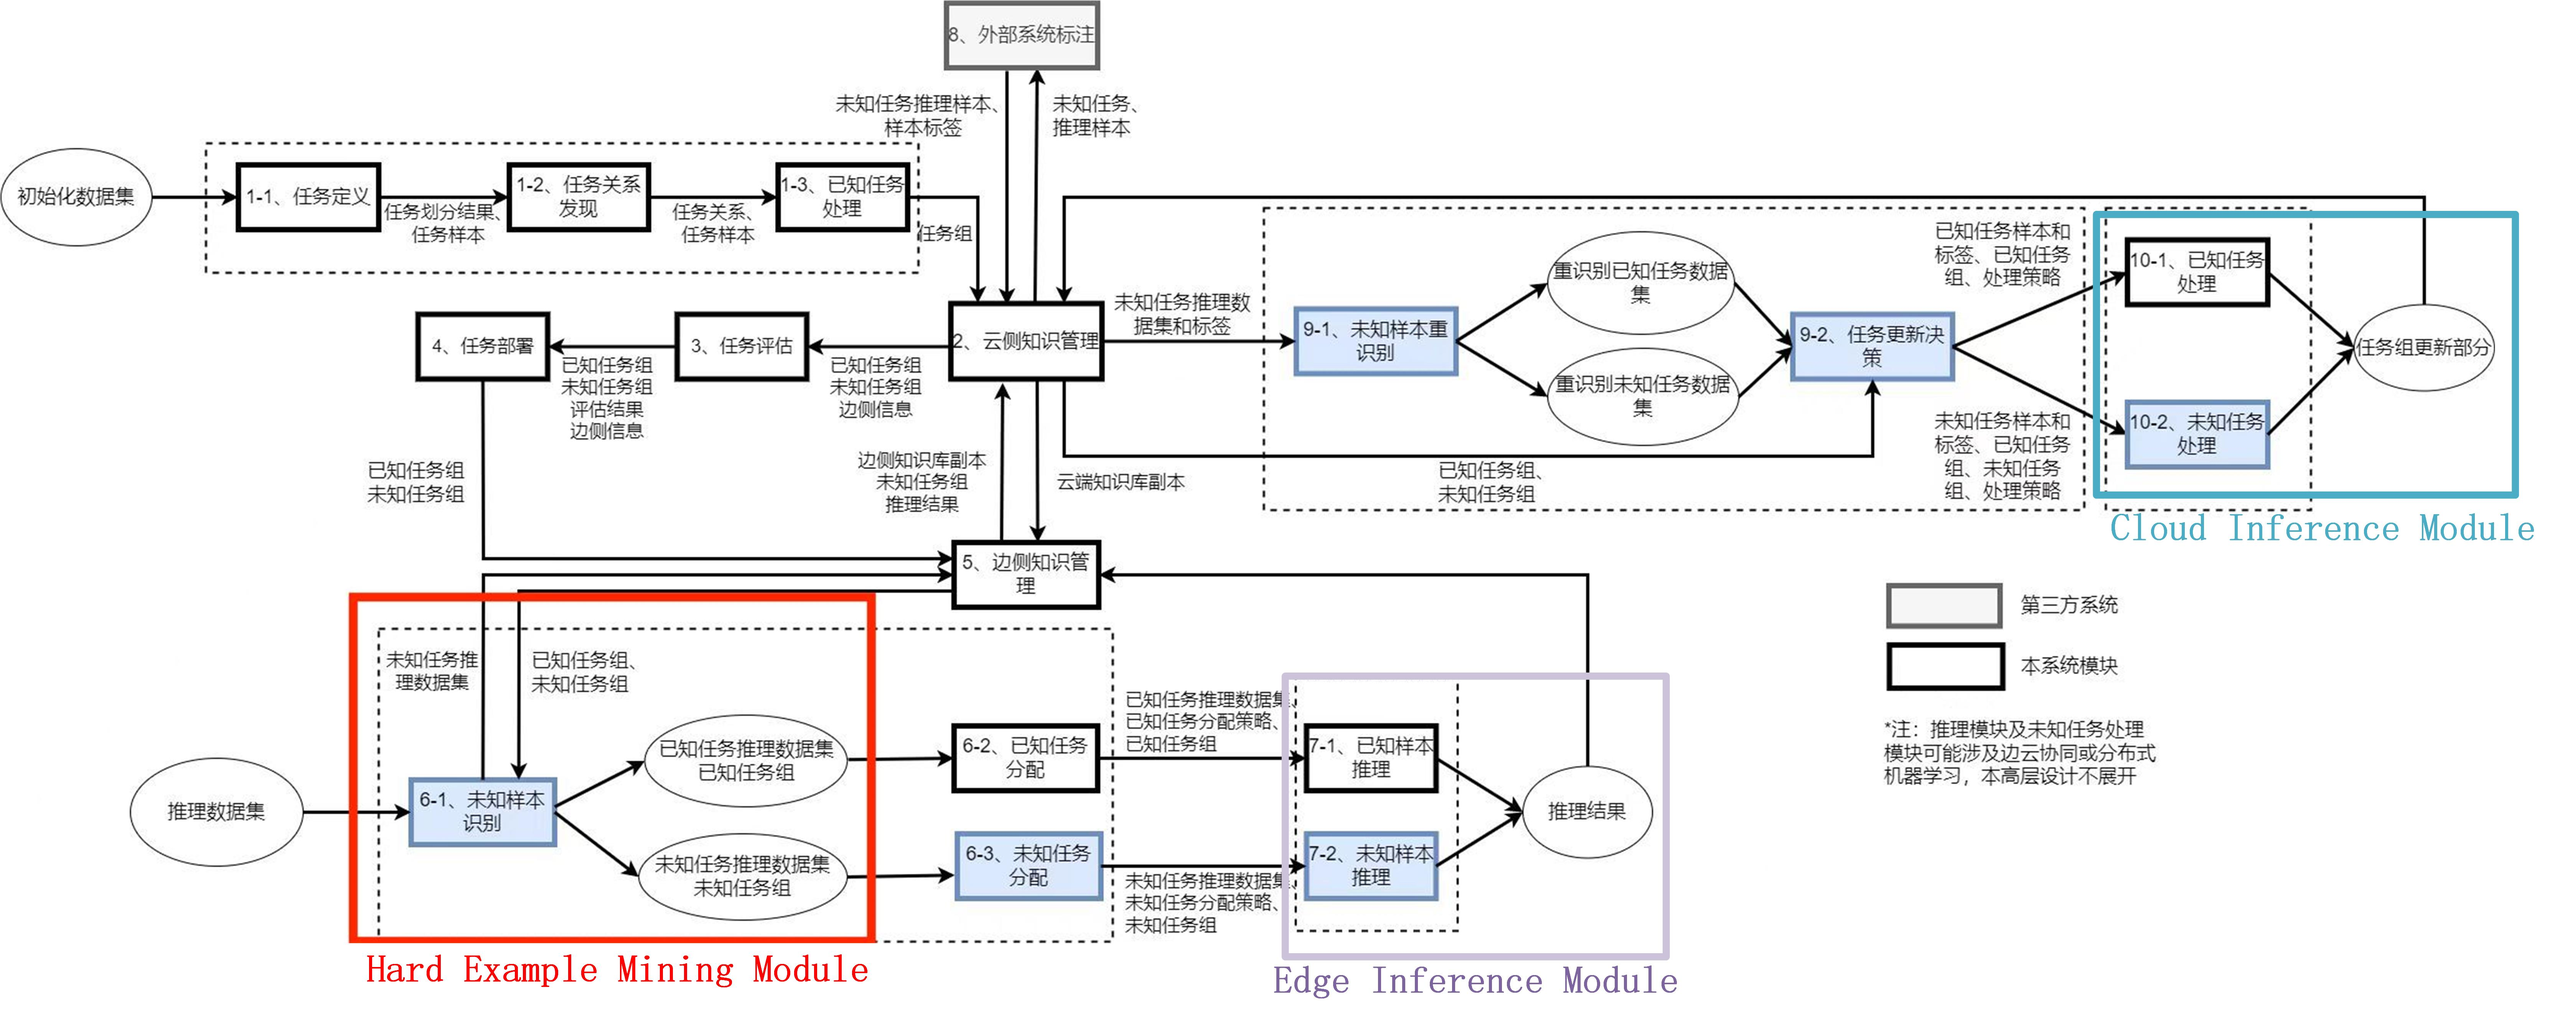
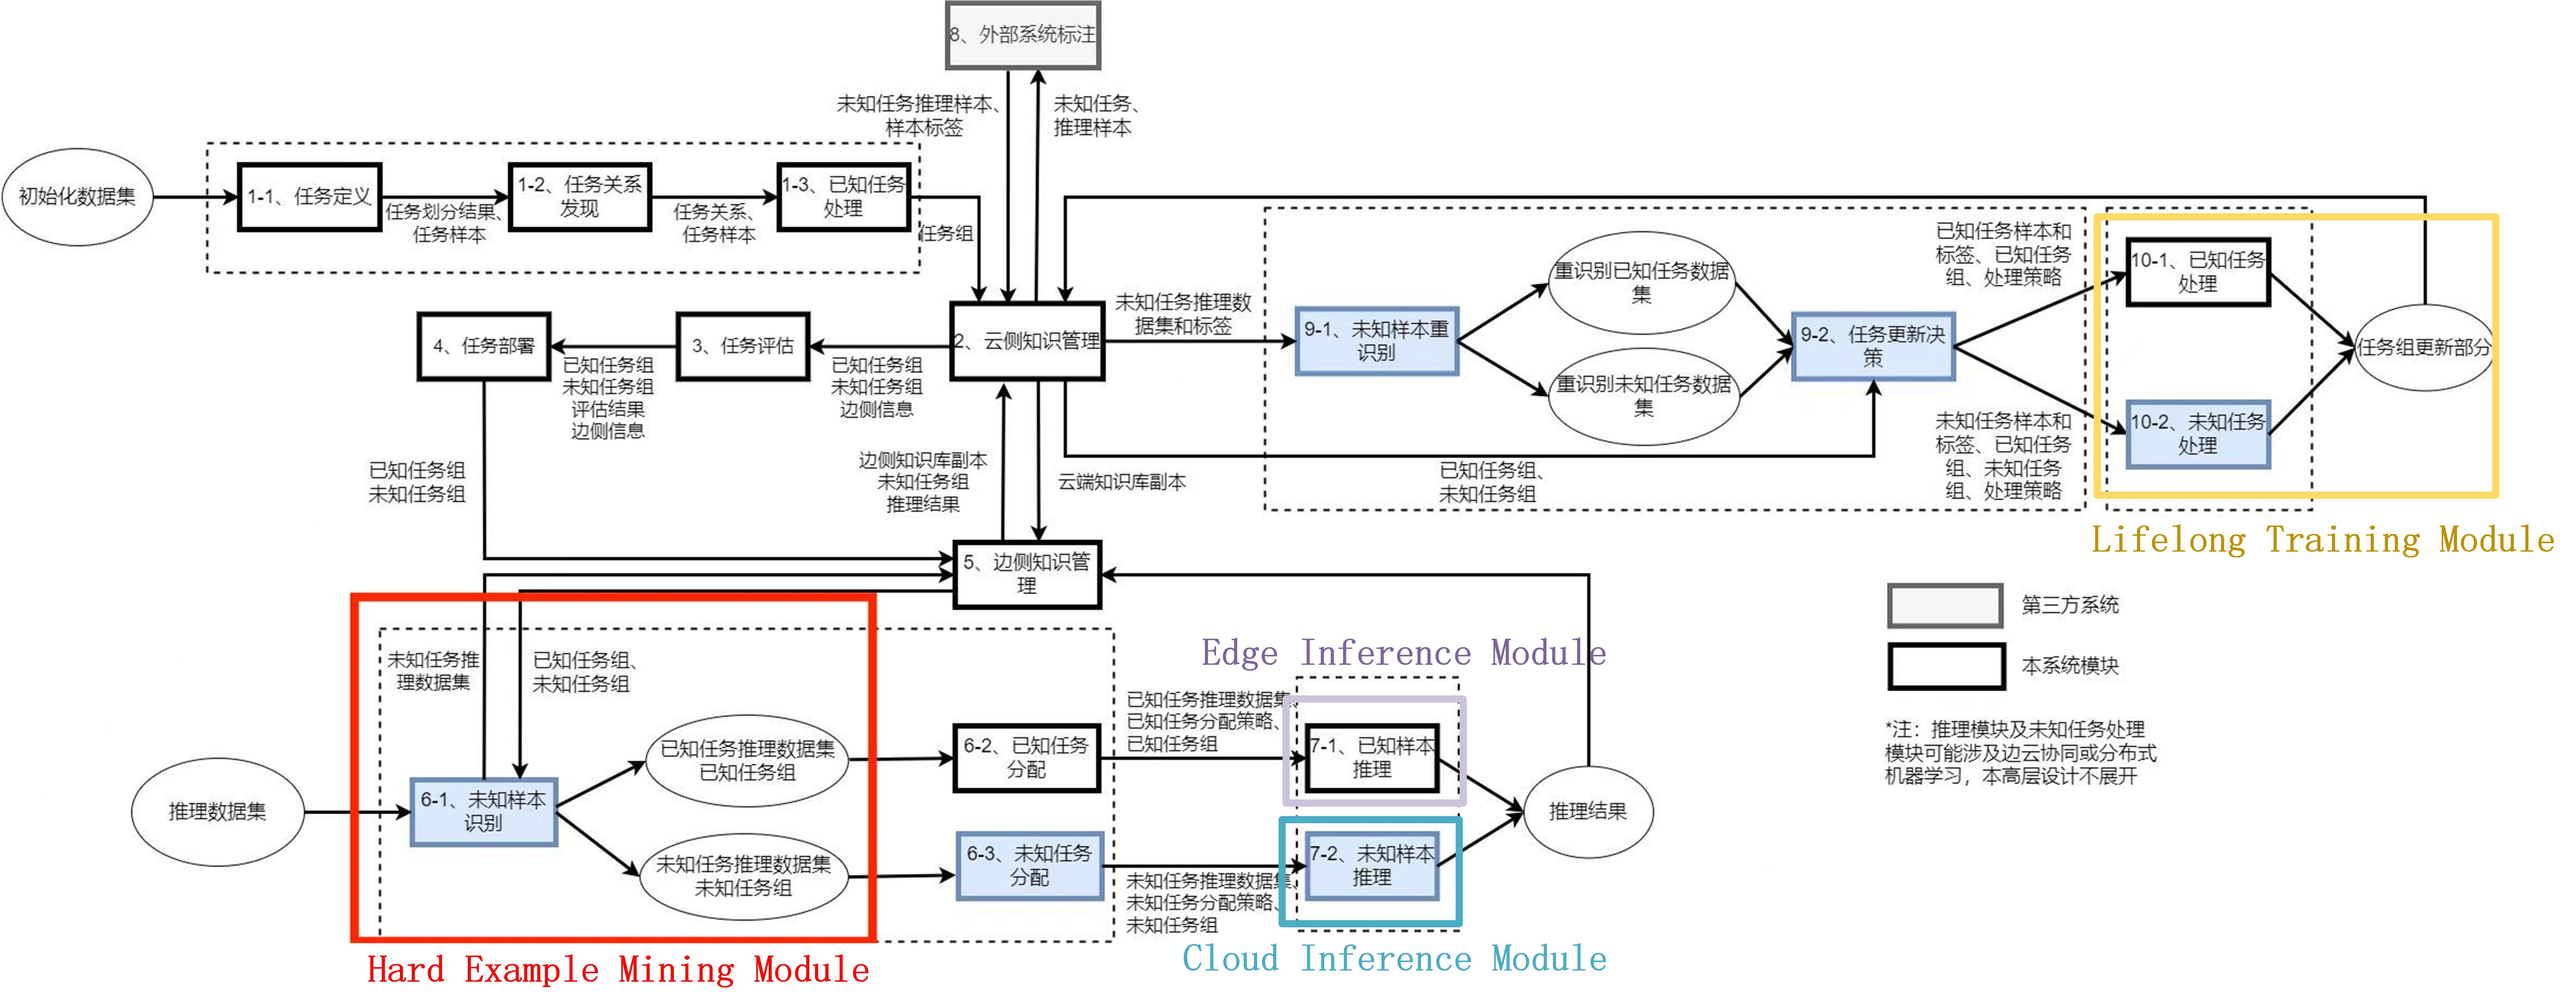
add description for workflow of lifelong training

diff --git a/docs/proposals/algorithms/lifelong-learning/Real-Time IoT Perception Systems Based on Edge-Cloud Collaboration with Large Foundation Models.md b/docs/proposals/algorithms/lifelong-learning/Real-Time IoT Perception Systems Based on Edge-Cloud Collaboration with Large Foundation Models.md
@@ -63,7 +63,7 @@ The overall workflow of the system is as follows:
 
 ![plugin-workflow](images/plugin-workflow.jpg)
 
-The Hard Example Mining Module will be implemented in the unknown sample recognition module of Ianvs. The Edge Inference Module will be implemented in the known sample inference module of Ianvs' edge-side knowledge management. The Cloud Inference Module will be implemented in the unknown task processing module of Ianvs' cloud-side knowledge management.
+The Hard Example Mining Module will be implemented in the unknown sample recognition module of Ianvs. The Edge Inference Module will be implemented in the known sample inference module of Ianvs' edge-side knowledge management. The Cloud Inference Module will be implemented in the unknown sample inference module. The Liflelong Training module will be implemented in the unknown task processing module of Ianvs' cloud-side knowledge management.
 
 ### 3.2 Implementation of SAM-based Semantic Segmentation
 
